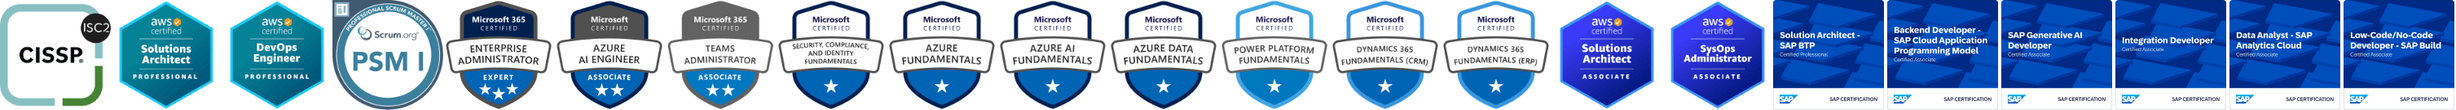
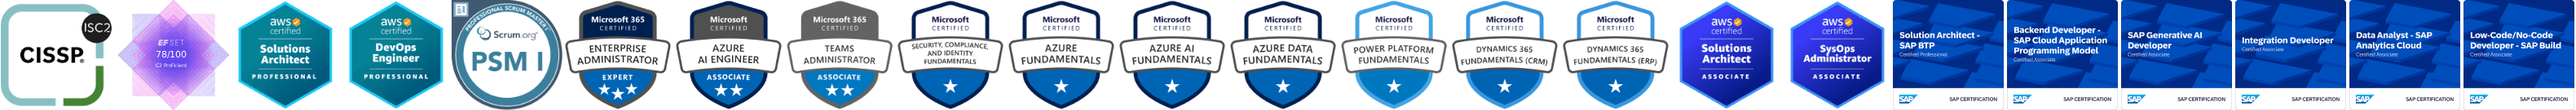
badge order

diff --git a/website/index.html b/website/index.html
@@ -106,7 +106,7 @@
 			.badge .img {
 				height: 10vmin;
 				width: 10vmin;
-				margin-left: 4vmin;
+				margin-left: 1vmin;
 				margin-right: 2vmin;
 				background-image: url("certifications.png");
 				background-size: auto 100%;
@@ -127,6 +127,9 @@
 			}
 			.badge1 {
 				background-position:0 0;
+			}
+			.badge23 {
+				background-position:221.6vmin 0;
 			}
 			.badge2 {
 				background-position:211.6vmin 0;
@@ -199,78 +202,29 @@
 					font-size: 2vmin;
 				}
 				.badge {
-					margin-top: 2%;
+					margin-top: 3%;
 					width: 33.3%;
 				}
 				.badge a {
 					font-size: 1.7vmin;
 				}
-				.badge .img {
-					height: 7vmin;
-					width: 7vmin;
+			}
+			@media screen and (min-width: 1200px) {
+				.content {
+					max-width: 130vmin;
 				}
-				.badge2 {
-					background-position:303vmin 0;
+				h2 {
+					font-size: 3vmin;
 				}
-				.badge3 {
-					background-position:296.3vmin 0;
+				.link {
+					font-size: 2vmin;
 				}
-				.badge4 {
-					background-position:289.2vmin 0;
+				.badge {
+					margin-top: 3%;
+					width: 25%;
 				}
-				.badge5 {
-					background-position:282.2vmin 0;
-				}
-				.badge6 {
-					background-position:275.2vmin 0;
-				}
-				.badge7 {
-					background-position:268.2vmin 0;
-				}
-				.badge8 {
-					background-position:261.2vmin 0;
-				}
-				.badge9 {
-					background-position:254.2vmin 0;
-				}
-				.badge10 {
-					background-position:247.2vmin 0;
-				}
-				.badge11 {
-					background-position:240.2vmin 0;
-				}
-				.badge12 {
-					background-position:233.2vmin 0;
-				}
-				.badge13 {
-					background-position:226.2vmin 0;
-				}
-				.badge14 {
-					background-position:219.2vmin 0;
-				}
-				.badge15 {
-					background-position:212.2vmin 0;
-				}
-				.badge16 {
-					background-position:205.3vmin 0;
-				}
-				.badge17 {
-					background-position:198.3vmin 0;
-				}
-				.badge18 {
-					background-position:191.2vmin 0;
-				}
-				.badge19 {
-					background-position:184vmin 0;
-				}
-				.badge20 {
-					background-position:176.5vmin 0;
-				}
-				.badge21 {
-					background-position:169.5vmin 0;
-				}
-				.badge22 {
-					background-position:162.4vmin 0;
+				.badge a {
+					font-size: 1.7vmin;
 				}
 			}
 		</style>
@@ -281,143 +235,149 @@
 				<div class="picture"></div>
 				<h1>Colin Hülsbusch</h1>
 				<div>
-					<a class="link" href="https://linkedin.com/in/ColinHuelsbusch">LinkedIn</a>
-					<a class="link" href="https://github.com/ColinHuelsbusch">GitHub</a>
-					<a class="link" href="business-card.vcf">Business Card</a>
+					<a class="link" href="https://linkedin.com/in/ColinHuelsbusch" target="_blank">LinkedIn</a>
+					<a class="link" href="https://github.com/ColinHuelsbusch" target="_blank">GitHub</a>
+					<a class="link" href="business-card.vcf" target="_blank">Business Card</a>
 				</div>
 			</div>
 		</div>
 		<div class="content">
 			<div class="badge">
-				<a href="https://www.credly.com/badges/efc7f2f8-3b7e-4841-8d8d-2a2f961986fb">
+				<a href="https://www.credly.com/badges/efc7f2f8-3b7e-4841-8d8d-2a2f961986fb" target="_blank">
 					<div class="img badge1"></div>
 					<span>Certified Information<br>Systems Security<br>Professional (CISSP)</span>
 				</a>
 			</div>
 			<div class="badge">
-				<a href="https://learn.microsoft.com/api/credentials/share/de-de/ColinHuelsbusch/565947E1F5F0E362">
+				<a href="https://learn.microsoft.com/api/credentials/share/de-de/ColinHuelsbusch/565947E1F5F0E362" target="_blank">
 					<div class="img badge5"></div>
 					<span>Microsoft 365 Certified<br>Administrator<br>Expert</span>
 				</a>
 			</div>
 			<div class="badge">
-				<a href="https://learn.microsoft.com/api/credentials/share/de-de/ColinHuelsbusch/851C4BF642092C06">
+				<a href="https://learn.microsoft.com/api/credentials/share/de-de/ColinHuelsbusch/851C4BF642092C06" target="_blank">
 					<div class="img badge6"></div>
 					<span>Microsoft Certified<br>AI Engineer<br>Associate</span>
 				</a>
 			</div>
 			<div class="badge">
-				<a href="https://learn.microsoft.com/api/credentials/share/de-de/ColinHuelsbusch/9D24E8BE82CA7540">
+				<a href="https://learn.microsoft.com/api/credentials/share/de-de/ColinHuelsbusch/9D24E8BE82CA7540" target="_blank">
 					<div class="img badge7"></div>
 					<span>Microsoft 365 Certified<br>Teams Administrator<br>Associate</span>
 				</a>
 			</div>
 			<div class="badge">
-				<a href="https://learn.microsoft.com/api/credentials/share/de-de/ColinHuelsbusch/851C4BF642092C06">
+				<a href="https://learn.microsoft.com/api/credentials/share/de-de/ColinHuelsbusch/851C4BF642092C06" target="_blank">
 					<div class="img badge8"></div>
 					<span>Microsoft Certified<br>Security, Compliance, and<br>Identity Fundamentals</span>
 				</a>
 			</div>
 			<div class="badge">
-				<a href="https://learn.microsoft.com/api/credentials/share/de-de/ColinHuelsbusch/822B40DF387613AE">
+				<a href="https://learn.microsoft.com/api/credentials/share/de-de/ColinHuelsbusch/822B40DF387613AE target="_blank">
 					<div class="img badge9"></div>
 					<span>Microsoft Certified<br>Azure<br>Fundamentals</span>
 				</a>
 			</div>
 			<div class="badge">
-				<a href="https://learn.microsoft.com/api/credentials/share/de-de/ColinHuelsbusch/617C851BF7D082B6">
+				<a href="https://learn.microsoft.com/api/credentials/share/de-de/ColinHuelsbusch/617C851BF7D082B6" target="_blank">
 					<div class="img badge10"></div>
 					<span>Microsoft Certified<br>Azure AI<br>Fundamentals</span>
 				</a>
 			</div>
 			<div class="badge">
-				<a href="https://learn.microsoft.com/api/credentials/share/de-de/ColinHuelsbusch/5E848464FF4D4B35">
+				<a href="https://learn.microsoft.com/api/credentials/share/de-de/ColinHuelsbusch/5E848464FF4D4B35 target="_blank">
 					<div class="img badge11"></div>
 					<span>Microsoft Certified<br>Azure Data<br>Fundamentals</span>
 				</a>
 			</div>
 			<div class="badge">
-				<a href="https://learn.microsoft.com/api/credentials/share/de-de/ColinHuelsbusch/5D07D2DDA14F4458">
+				<a href="https://learn.microsoft.com/api/credentials/share/de-de/ColinHuelsbusch/5D07D2DDA14F4458" target="_blank">
 					<div class="img badge12"></div>
 					<span>Microsoft Certified<br>Power Platform<br>Fundamentals</span>
 				</a>
 			</div>
 			<div class="badge">
-				<a href="https://learn.microsoft.com/api/credentials/share/de-de/ColinHuelsbusch/C40A8D710B663044">
+				<a href="https://learn.microsoft.com/api/credentials/share/de-de/ColinHuelsbusch/C40A8D710B663044" target="_blank">
 					<div class="img badge13"></div>
 					<span>Microsoft Certified<br>Dynamics 365<br>Fundamentals (CRM)</span>
 				</a>
 			</div>
 			<div class="badge">
-				<a href="https://learn.microsoft.com/api/credentials/share/de-de/ColinHuelsbusch/54DAECFBB140EAF3">
+				<a href="https://learn.microsoft.com/api/credentials/share/de-de/ColinHuelsbusch/54DAECFBB140EAF3" target="_blank">
 					<div class="img badge14"></div>
 					<span>Microsoft Certified<br>Dynamics 365<br>Fundamentals (ERP)</span>
 				</a>
 			</div>
 			<div class="badge">
-				<a href="https://cp.certmetrics.com/amazon/en/public/verify/credential/BEGMVSFD3JF1QL5V">
+				<a href="https://cp.certmetrics.com/amazon/en/public/verify/credential/BEGMVSFD3JF1QL5V" target="_blank">
 					<div class="img badge2"></div>
 					<span>AWS Certified<br>Solutions Architect<br>Professional</span>
 				</a>
 			</div>
 			<div class="badge">
-				<a href="https://cp.certmetrics.com/amazon/en/public/verify/credential/C590VFTBMN111QSR">
+				<a href="https://cp.certmetrics.com/amazon/en/public/verify/credential/C590VFTBMN111QSR" target="_blank">
 					<div class="img badge3"></div>
 					<span>AWS Certified<br>DevOps Engineer<br>Professional</span>
 				</a>
 			</div>
 			<div class="badge">
-				<a href="https://cp.certmetrics.com/amazon/en/public/verify/credential/TX3RQXFCGJREQXSJ">
+				<a href="https://cp.certmetrics.com/amazon/en/public/verify/credential/TX3RQXFCGJREQXSJ" target="_blank">
 					<div class="img badge15"></div>
 					<span>AWS Certified<br>Solutions Architect<br>Associate</span>
 				</a>
 			</div>
 			<div class="badge">
-				<a href="https://cp.certmetrics.com/amazon/en/public/verify/credential/5M4FS8DKE1V4Q0K1">
+				<a href="https://cp.certmetrics.com/amazon/en/public/verify/credential/5M4FS8DKE1V4Q0K1" target="_blank">
 					<div class="img badge16"></div>
 					<span>AWS Certified<br>SysOps Administrator<br>Associate</span>
 				</a>
 			</div>
 			<div class="badge">
-				<a href="https://www.credly.com/badges/bfcd9610-3679-4d91-9391-18df61064df9">
+				<a href="https://www.credly.com/badges/bfcd9610-3679-4d91-9391-18df61064df9" target="_blank">
 					<div class="img badge17"></div>
 					<span>SAP Certified Professional<br>Solution Architect<br>SAP BTP</span>
 				</a>
 			</div>
 			<div class="badge">
-				<a href="https://www.credly.com/badges/a72c2164-462d-4186-8eb1-007bf49c43b1">
+				<a href="https://www.credly.com/badges/a72c2164-462d-4186-8eb1-007bf49c43b1" target="_blank">
 					<div class="img badge18"></div>
 					<span>SAP Certified Associate<br>Backend Developer<br>SAP CAP Model</span>
 				</a>
 			</div>
 			<div class="badge">
-				<a href="https://www.credly.com/badges/12e12e94-b144-471d-b6fd-919c6e2106f2">
+				<a href="https://www.credly.com/badges/12e12e94-b144-471d-b6fd-919c6e2106f2" target="_blank">
 					<div class="img badge19"></div>
 					<span>SAP Certified Associate<br>SAP Generative<br>AI Developer</span>
 				</a>
 			</div>
 			<div class="badge">
-				<a href="https://www.credly.com/badges/12f412ad-4389-4c82-a7a0-4b01e44758a5">
+				<a href="https://www.credly.com/badges/12f412ad-4389-4c82-a7a0-4b01e44758a5" target="_blank">
 					<div class="img badge20"></div>
 					<span>SAP Certified Associate<br>Integration<br>Developer</span>
 				</a>
 			</div>
 			<div class="badge">
-				<a href="https://www.credly.com/badges/e3e8e5ac-69f8-405d-8a32-9c8a4d12102a">
+				<a href="https://www.credly.com/badges/e3e8e5ac-69f8-405d-8a32-9c8a4d12102a" target="_blank">
 					<div class="img badge21"></div>
 					<span>SAP Certified Associate<br>Data Analyst<br>SAP Analytics Cloud</span>
 				</a>
 			</div>
 			<div class="badge">
-				<a href="https://www.credly.com/badges/339e968f-9411-4058-8a8e-bc9dda000d5d">
+				<a href="https://www.credly.com/badges/339e968f-9411-4058-8a8e-bc9dda000d5d" target="_blank">
 					<div class="img badge22"></div>
 					<span>SAP Certified Associate<br>Low-Code/No-Code<br>Developer SAP Build</span>
 				</a>
 			</div>
 			<div class="badge">
-				<a href="https://www.scrum.org/user/179841">
+				<a href="https://www.scrum.org/user/179841" target="_blank">
 					<div class="img badge4"></div>
 					<span>Professional<br>Scrum Master I<br>(PSM I)</span>
+				</a>
+			</div>
+			<div class="badge">
+				<a href="https://cert.efset.org/32TkP8" target="_blank">
+					<div class="img badge23"></div>
+					<span>EF SET<br>English<br>C2 Proficient</span>
 				</a>
 			</div>
 		</div>
